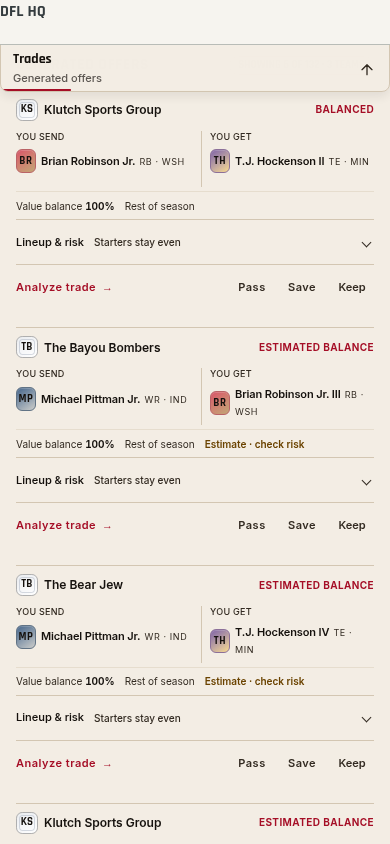
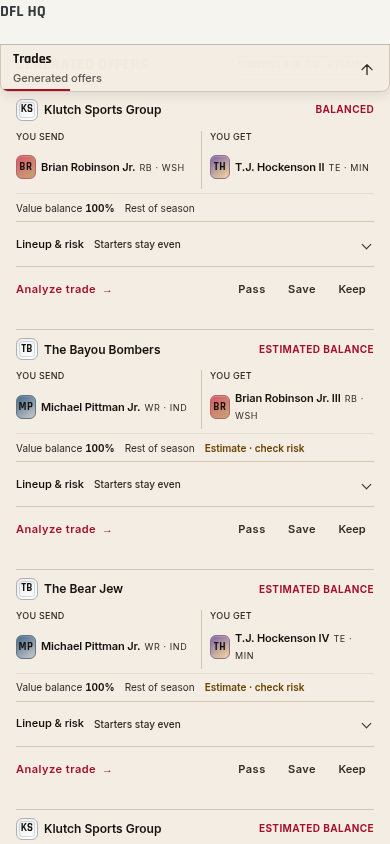
Preserve mobile touch targets and align integration checks

diff --git a/css/app-shared.css b/css/app-shared.css
@@ -9010,7 +9010,7 @@ html[data-ui-motion="off"] :is(.dfl-player-portrait,.dfl-team-mark,.home-reel-po
 #view.view[data-route="trade"] .tb-package { padding:0; min-width:0; gap:0; }
 #view.view[data-route="trade"] .tb-package>small { display:block; margin:0 0 3px; font:500 .5625rem/1.3 var(--font-ui); letter-spacing:.03em; }
 #view.view[data-route="trade"] .tb-package .tb-player { display:block; min-width:0; padding:0; margin:0; }
-#view.view[data-route="trade"] .tb-package .tb-player-link { display:flex; align-items:center; gap:5px; width:100%; min-height:32px; padding:3px 0; text-align:left; }
+#view.view[data-route="trade"] .tb-package .tb-player-link { display:flex; align-items:center; gap:5px; width:100%; min-height:44px; padding:3px 0; text-align:left; }
 #view.view[data-route="trade"] .tb-package .dfl-player-portrait { width:20px; height:24px; min-width:20px; flex:0 0 20px; }
 #view.view[data-route="trade"] .tb-package .dfl-player-copy { display:block; min-width:0; }
 #view.view[data-route="trade"] .tb-package .dfl-player-copy strong { display:inline; font:600 .6875rem/1.35 var(--font-ui); white-space:normal; overflow:visible; overflow-wrap:break-word; text-overflow:clip; }

diff --git a/css/mobile-finish.css b/css/mobile-finish.css
@@ -40,7 +40,7 @@
 #view.view[data-route="trade"] .tb-package { padding:0; min-width:0; gap:0; }
 #view.view[data-route="trade"] .tb-package>small { display:block; margin:0 0 3px; font:500 .5625rem/1.3 var(--font-ui); letter-spacing:.03em; }
 #view.view[data-route="trade"] .tb-package .tb-player { display:block; min-width:0; padding:0; margin:0; }
-#view.view[data-route="trade"] .tb-package .tb-player-link { display:flex; align-items:center; gap:5px; width:100%; min-height:32px; padding:3px 0; text-align:left; }
+#view.view[data-route="trade"] .tb-package .tb-player-link { display:flex; align-items:center; gap:5px; width:100%; min-height:44px; padding:3px 0; text-align:left; }
 #view.view[data-route="trade"] .tb-package .dfl-player-portrait { width:20px; height:24px; min-width:20px; flex:0 0 20px; }
 #view.view[data-route="trade"] .tb-package .dfl-player-copy { display:block; min-width:0; }
 #view.view[data-route="trade"] .tb-package .dfl-player-copy strong { display:inline; font:600 .6875rem/1.35 var(--font-ui); white-space:normal; overflow:visible; overflow-wrap:break-word; text-overflow:clip; }

diff --git a/tools/capture-finish-review.py b/tools/capture-finish-review.py
@@ -20,7 +20,7 @@ with sync_playwright() as p:
  page=context.new_page();errors=[];page.on('pageerror',lambda error:errors.append(str(error)))
  page.goto('http://127.0.0.1:'+str(server.server_port)+'/');page.wait_for_function('!!window.reviewSetTheme');page.evaluate('document.fonts.ready')
  page.evaluate('''async sources=>{
-  const names=['matchup-view-context','banter-memory-ui','player-week-details','player-week-detail-data','live-football','ui','sleeper-links','team-presentation','player-presentation','identity-rules','score-temperature','game-day-lineup-comparison','game-day-score-motion','game-day-moment-effects','game-day-experience-model','page-disclosure','game-day-dom','score-freshness','game-day-panels','clubhouse-matchup-model','watch-score-collapse','moment-recap','record-chases','record-chases-model','matchup-finish','matchup-finish-model','game-day-matchup-share','matchup-story','matchup-highlights','game-day-model','clubhouse-center-model','clubhouse-center-ui','clubhouse-polish','clubhouse-matchup-cards'];
+  const names=['story-destinations','matchup-view-context','banter-memory-ui','player-week-details','player-week-detail-data','live-football','ui','sleeper-links','team-presentation','player-presentation','identity-rules','score-temperature','game-day-lineup-comparison','game-day-score-motion','game-day-moment-effects','game-day-experience-model','page-disclosure','game-day-dom','score-freshness','game-day-panels','clubhouse-matchup-model','watch-score-collapse','moment-recap','record-chases','record-chases-model','matchup-finish','matchup-finish-model','game-day-matchup-share','matchup-story','matchup-highlights','game-day-model','clubhouse-center-model','clubhouse-center-ui','clubhouse-polish','clubhouse-matchup-cards'];
   const helpers=Object.assign({},...await Promise.all(names.map(name=>import('./js/'+name+'.js'))));
  const mountDetails=helpers.mountPlayerWeekDetails;helpers.mountPlayerWeekDetails=(root,options)=>mountDetails(root,{...options,load:async()=>[]});
   const noop=()=>{},member={id:'finish-reader'},providers={shareMatchupReceipt:data=>{const f=window.finishFixture;f.shared=data;if(f.holdShare)return new Promise((resolve,reject)=>f.rejectShare=reject)},currentMember:()=>member,loadWeeklyStats:async()=>({data:[]}),sleeper:{league:async()=>({roster_positions:['QB']})},mountPlayerSpotlight:()=>({stop:noop,update:noop,setMotion:noop}),mountScoreVfx:()=>({stop:noop,refresh:noop}),loadRivalryCalls:async()=>[],rivalryStoryHtml:()=>'',db:()=>({from:()=>({select:()=>({match:()=>({order:()=>({order:()=>({limit:async()=>({data:[]})})})})})})})};

diff --git a/tools/capture-record-art-review.py b/tools/capture-record-art-review.py
@@ -31,7 +31,7 @@ with sync_playwright() as p:
  page.goto(base+'record-art-review.html');page.wait_for_function('window.reviewReady',timeout=60000)
  check('artwork is absent from startup requests',not requests)
  page.evaluate('''async sources=>{
- const names=['matchup-view-context','player-week-details','player-week-detail-data','live-football','ui','sleeper-links','team-presentation','player-presentation','identity-rules','score-temperature','game-day-lineup-comparison','game-day-score-motion','game-day-moment-effects','game-day-experience-model','page-disclosure','game-day-dom','score-freshness','game-day-panels','clubhouse-matchup-model','watch-score-collapse','moment-recap','record-chases','record-chases-model','matchup-finish','matchup-finish-model','game-day-matchup-share','matchup-story','matchup-highlights','game-day-model','clubhouse-center-model','clubhouse-center-ui','clubhouse-polish','clubhouse-matchup-cards','banter-memory-ui','ui-motion'];
+ const names=['story-destinations','matchup-view-context','player-week-details','player-week-detail-data','live-football','ui','sleeper-links','team-presentation','player-presentation','identity-rules','score-temperature','game-day-lineup-comparison','game-day-score-motion','game-day-moment-effects','game-day-experience-model','page-disclosure','game-day-dom','score-freshness','game-day-panels','clubhouse-matchup-model','watch-score-collapse','moment-recap','record-chases','record-chases-model','matchup-finish','matchup-finish-model','game-day-matchup-share','matchup-story','matchup-highlights','game-day-model','clubhouse-center-model','clubhouse-center-ui','clubhouse-polish','clubhouse-matchup-cards','banter-memory-ui','ui-motion'];
  const helpers=Object.assign({},...await Promise.all(names.map(name=>import('./js/'+name+'.js'))));
  const mountDetails=helpers.mountPlayerWeekDetails;helpers.mountPlayerWeekDetails=(root,options)=>mountDetails(root,{...options,load:async()=>[]});
  const noop=()=>{},member={id:10};const providers={currentMember:()=>member,loadRivalryCalls:async()=>[],rivalryStoryHtml:()=>'',mountPlayerSpotlight:()=>({stop:noop,update:noop,setMotion:noop}),mountScoreVfx:()=>({stop:noop,refresh:noop}),db:()=>({from:()=>({select:()=>({match:()=>({order:()=>({order:()=>({limit:async()=>({data:[]})})})})})})})};

diff --git a/tools/capture-trade-review.py b/tools/capture-trade-review.py
@@ -299,7 +299,7 @@ with sync_playwright() as p:
         click('[data-tb-intent="fair"]')
         page.locator('[data-tb-tier="fair"] .tb-offer').first.wait_for()
         assert page.locator('[data-tb-tier="fair"] .tb-offer').count()>0
-        assert page.locator('[data-tb-tier="fair"] .tb-offer > header > b').evaluate_all("es=>es.every(e=>e.textContent.includes('BALANCED'))")
+        assert page.locator('[data-tb-tier="fair"] .tb-offer > header > b').evaluate_all("es=>es.every(e=>e.textContent.trim()==='ESTIMATED BALANCE')")
         assert page.locator('[data-tb-tier="fair"] .tb-offer .tb-offer-risk').evaluate_all("es=>es.every(e=>e.textContent.includes('Rank disagreement'))")
         assert page.evaluate('document.documentElement.scrollWidth<=innerWidth')
         page.locator('[data-tb-tier="fair"]').evaluate("e=>e.scrollIntoView({block:'start',behavior:'instant'})")

diff --git a/docs/mobile-trade-broadcast-polish-1536.md b/docs/mobile-trade-broadcast-polish-1536.md
@@ -37,6 +37,8 @@ another daily story allowance; this does not guarantee the last active slide.
 - Broadcast: 90 normal layouts and 56 enlarged layouts, both themes, at
   320/390/768px; swipe/replay, Reduced Motion and full text containment pass.
 - Trade: 112 reading, compactness, lineup, multi-team, Back and motion checks.
+  Player buttons retain 44px tap areas. Existing matchup finish and record-art
+  regression checks also pass with the destination helpers loaded.
 - Shared interface: 24 layouts plus six enlarged layouts.
 - Compiled real-league Home: ten slides in each theme, no overflow or page errors.
   Each of its nine linked cards opens the matching destination and returns to

diff --git a/theme-audit.md b/theme-audit.md
@@ -5,7 +5,7 @@ slides in Medicine Wheel Light/Dark at phone widths. Existing surface, text,
 accent and divider tokens are reused; NFL and status colors keep their roles.
 No palette or theme choice was added. Full broadcast copy and responsive rows
 remain contained through enlarged text checks. Existing motion preferences and
-44px primary actions remain; dense inline player controls retain a 32px height.
+44px primary actions and player controls remain.
 
 `pnpm check` passes including themes and 2,435 tests. Browser evidence covers
 90 normal/56 enlarged broadcast layouts, 112 trade checks, both compiled Home
